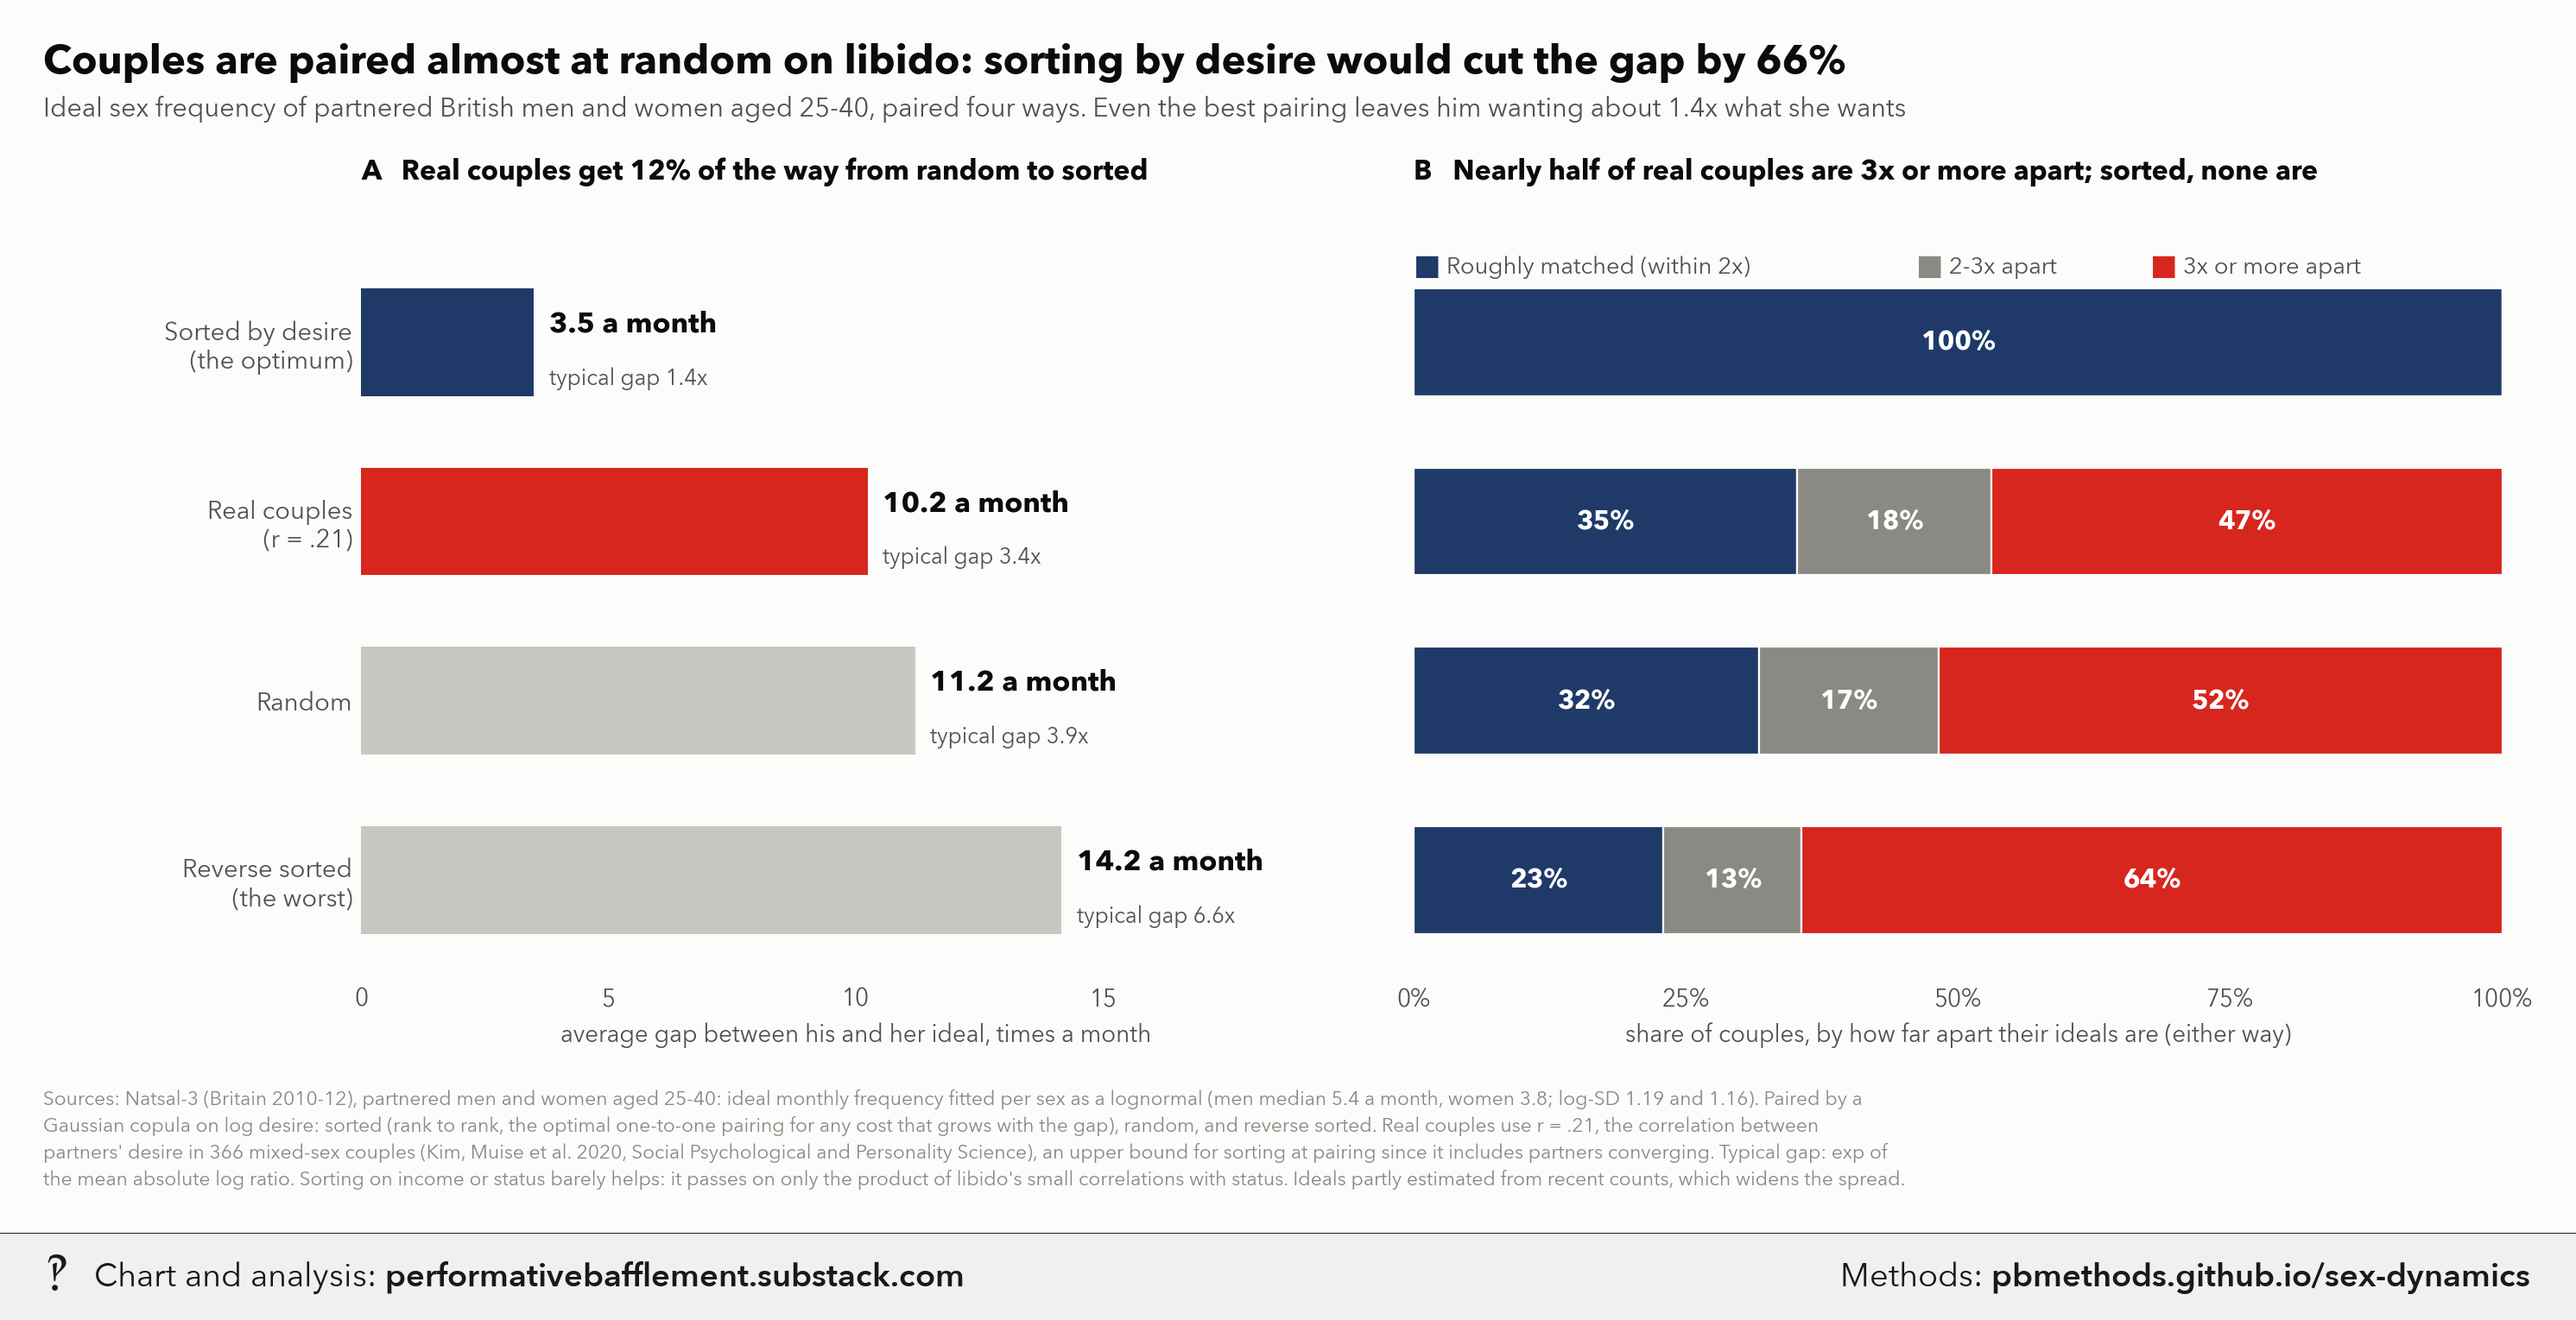
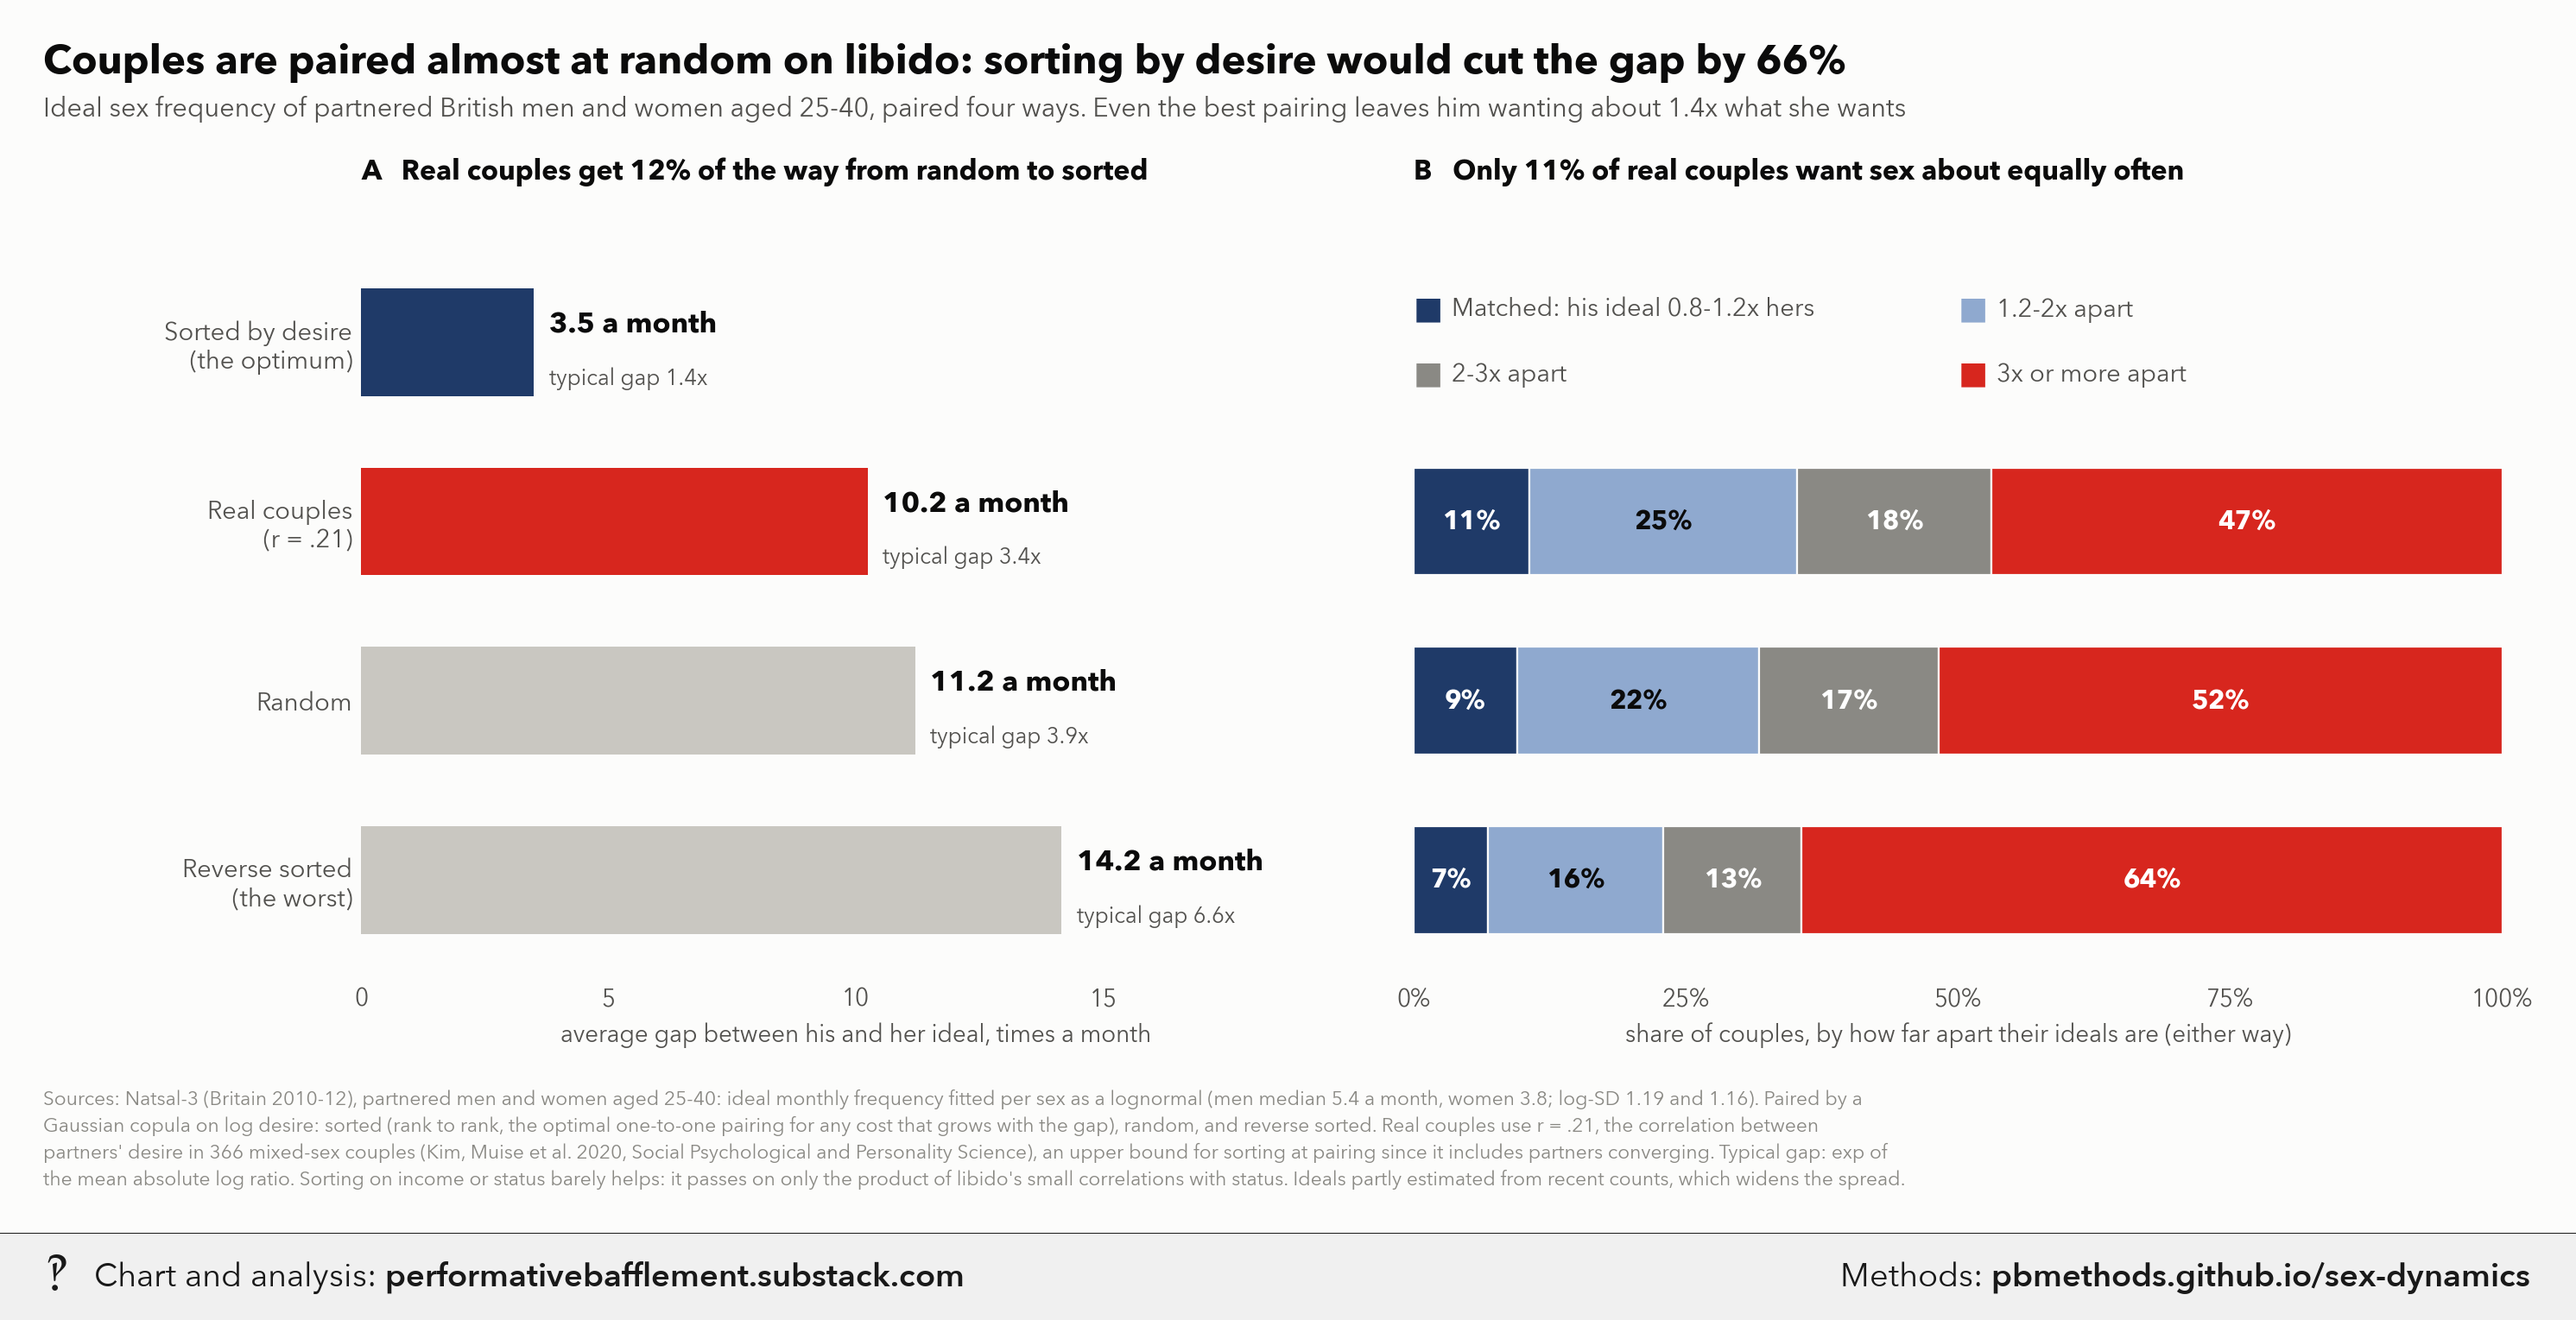
Update sex-dynamics

diff --git a/sex-dynamics/index.html b/sex-dynamics/index.html
@@ -136,7 +136,7 @@ Writes small CSVs next to this script; `master_post_charts.py` draws them. Run f
     mixed-sex couples (Kim, Muise et al. 2020, Social Psychological and Personality Science, 366 couples), 0 =
     random, -1 = worst. With one man per woman the median his/hers ratio is the same under every pairing; pairing
     only changes the spread around it. Reported: typical gap (exp of mean |log ratio|), mean absolute gap per month,
-    shares where he wants 2x+, she wants more, or they are within 2x, 2-3x or 3x+ apart either way. Monte Carlo, 2 million couples.
+    shares where he wants 2x+, she wants more, or his/hers is 0.8-1.2x (about matched), or they are within 2x, 2-3x or 3x+ apart either way. Monte Carlo, 2 million couples.
 
 * **Who has the most sex** (GSS 1989-2022, ages 25-60): the &quot;more than 3 times a week&quot; band of `sexfreq` (about
   7% of adults; GSS can't separate a finer top 3-5%) against the &quot;about once a week&quot; band, which holds the median.
@@ -2966,6 +2966,7 @@ Every number and method is in `master_post_data.py`'s docstring; caveats are in 
 <th>share_she_more</th>
 <th>share_3x_apart</th>
 <th>share_within_2x</th>
+<th>share_08_12</th>
 <th>share_2_to_3x</th>
 <th>sd_log_ratio</th>
 <th>mu_m</th>
@@ -2986,6 +2987,7 @@ Every number and method is in `master_post_data.py`'s docstring; caveats are in 
 <td>0.000</td>
 <td>1.000</td>
 <td>0.000</td>
+<td>0.000</td>
 <td>0.031</td>
 <td>1.688</td>
 <td>1.190</td>
@@ -3002,6 +3004,7 @@ Every number and method is in `master_post_data.py`'s docstring; caveats are in 
 <td>0.407</td>
 <td>0.469</td>
 <td>0.352</td>
+<td>0.106</td>
 <td>0.179</td>
 <td>1.477</td>
 <td>1.688</td>
@@ -3019,6 +3022,7 @@ Every number and method is in `master_post_data.py`'s docstring; caveats are in 
 <td>0.417</td>
 <td>0.517</td>
 <td>0.317</td>
+<td>0.095</td>
 <td>0.165</td>
 <td>1.661</td>
 <td>1.688</td>
@@ -3036,6 +3040,7 @@ Every number and method is in `master_post_data.py`'s docstring; caveats are in 
 <td>0.441</td>
 <td>0.644</td>
 <td>0.230</td>
+<td>0.068</td>
 <td>0.127</td>
 <td>2.349</td>
 <td>1.688</td>
@@ -4832,7 +4837,7 @@ Writes small CSVs next to this script; `master_post_charts.py` draws them. Run f
     mixed-sex couples (Kim, Muise et al. 2020, Social Psychological and Personality Science, 366 couples), 0 =
     random, -1 = worst. With one man per woman the median his/hers ratio is the same under every pairing; pairing
     only changes the spread around it. Reported: typical gap (exp of mean |log ratio|), mean absolute gap per month,
-    shares where he wants 2x+, she wants more, or they are within 2x, 2-3x or 3x+ apart either way. Monte Carlo, 2 million couples.
+    shares where he wants 2x+, she wants more, or his/hers is 0.8-1.2x (about matched), or they are within 2x, 2-3x or 3x+ apart either way. Monte Carlo, 2 million couples.
 
 * **Who has the most sex** (GSS 1989-2022, ages 25-60): the &quot;more than 3 times a week&quot; band of `sexfreq` (about
   7% of adults; GSS can't separate a finer top 3-5%) against the &quot;about once a week&quot; band, which holds the median.
@@ -5161,6 +5166,7 @@ for rho, lab in [(1.0, &quot;sorted (optimal)&quot;), (0.21, &quot;real couples 
                      share_he_2x=float((L &gt;= np.log(2)).mean()), share_she_more=float((L &lt; 0).mean()),
                      share_3x_apart=float((np.abs(L) &gt;= np.log(3)).mean()),
                      share_within_2x=float((np.abs(L) &lt; np.log(2)).mean()),
+                     share_08_12=float(((L &gt;= np.log(0.8)) &amp; (L &lt;= np.log(1.2))).mean()),
                      share_2_to_3x=float(((np.abs(L) &gt;= np.log(2)) &amp; (np.abs(L) &lt; np.log(3))).mean()),
                      sd_log_ratio=float(np.sqrt(sg_m ** 2 + sg_w ** 2 - 2 * rho * sg_m * sg_w)),
                      mu_m=mu_m, sg_m=sg_m, mu_w=mu_w, sg_w=sg_w))
@@ -6041,26 +6047,28 @@ got = (pr.loc[RA].mean_abs_gap_per_month - pr.loc[RE].mean_abs_gap_per_month) / 
     pr.loc[RA].mean_abs_gap_per_month - pr.loc[SO].mean_abs_gap_per_month)
 panel_title(ax, &quot;A&quot;, f&quot;Real couples get {got:.0%} of the way from random to sorted&quot;)
 
-SEGS = [(&quot;share_within_2x&quot;, &quot;Roughly matched (within 2x)&quot;, NAVY), (&quot;share_2_to_3x&quot;, &quot;2-3x apart&quot;, pb.GRAYS[0]),
-        (&quot;share_3x_apart&quot;, &quot;3x or more apart&quot;, RED)]
+pr[&quot;share_12_to_2x&quot;] = pr.share_within_2x - pr.share_08_12
+SEGS = [(&quot;share_08_12&quot;, &quot;Matched: his ideal 0.8-1.2x hers&quot;, NAVY), (&quot;share_12_to_2x&quot;, &quot;1.2-2x apart&quot;, &quot;#8fa9cf&quot;),
+        (&quot;share_2_to_3x&quot;, &quot;2-3x apart&quot;, pb.GRAYS[0]), (&quot;share_3x_apart&quot;, &quot;3x or more apart&quot;, RED)]
 for yi, k in zip(yb, order):
+    if k == SO:
+        continue
     left = 0
     for col, _, c in SEGS:
         v = pr.loc[k][col] * 100
         bx.barh(yi, v, left=left, height=0.6, color=c, edgecolor=P[&quot;SURFACE&quot;], lw=0.8)
         if v &gt;= 6:
             bx.text(left + v / 2, yi, f&quot;{v:.0f}%&quot;, ha=&quot;center&quot;, va=&quot;center&quot;, fontsize=11, fontweight=&quot;bold&quot;,
-                    color=&quot;white&quot;)
+                    color=&quot;white&quot; if c != &quot;#8fa9cf&quot; else INK)
         left += v
-x0 = 0
-for col, lab, c in SEGS:
-    bx.text(x0, 3.42, &quot;\u25a0&quot;, color=c, fontsize=12, va=&quot;center&quot;)
-    bx.text(x0 + 3, 3.42, lab, color=INK2, fontsize=9.8, va=&quot;center&quot;)
-    x0 += 3 + 1.45 * len(lab) + 4
+for n_, (col, lab, c) in enumerate(SEGS):  # legend in the row the sorted pairing would take
+    lx_, ly_ = (0, 50)[n_ % 2], yb[0] + 0.18 - 0.36 * (n_ // 2)
+    bx.text(lx_, ly_, &quot;\u25a0&quot;, color=c, fontsize=13, va=&quot;center&quot;)
+    bx.text(lx_ + 3.5, ly_, lab, color=INK2, fontsize=10.5, va=&quot;center&quot;)
 bx.set_yticks([]); bx.set_xlim(0, 100); bx.set_ylim(-0.55, 3.75)
 bx.set_xticks([0, 25, 50, 75, 100], [&quot;0%&quot;, &quot;25%&quot;, &quot;50%&quot;, &quot;75%&quot;, &quot;100%&quot;]); bx.grid(axis=&quot;y&quot;, visible=False)
 bx.set_xlabel(&quot;share of couples, by how far apart their ideals are (either way)&quot;)
-panel_title(bx, &quot;B&quot;, &quot;Nearly half of real couples are 3x or more apart; sorted, none are&quot;)
+panel_title(bx, &quot;B&quot;, f&quot;Only {pr.loc[RE].share_08_12:.0%} of real couples want sex about equally often&quot;)
 cut = 1 - pr.loc[SO].mean_abs_gap_per_month / pr.loc[RE].mean_abs_gap_per_month
 header(fig, f&quot;Couples are paired almost at random on libido: sorting by desire would cut the gap by {cut:.0%}&quot;,
        &quot;Ideal sex frequency of partnered British men and women aged 25-40, paired four ways. Even the best pairing &quot;

diff --git a/sex-dynamics/methods.md b/sex-dynamics/methods.md
@@ -143,7 +143,7 @@ Writes small CSVs next to this script; `master_post_charts.py` draws them. Run f
     mixed-sex couples (Kim, Muise et al. 2020, Social Psychological and Personality Science, 366 couples), 0 =
     random, -1 = worst. With one man per woman the median his/hers ratio is the same under every pairing; pairing
     only changes the spread around it. Reported: typical gap (exp of mean |log ratio|), mean absolute gap per month,
-    shares where he wants 2x+, she wants more, or they are within 2x, 2-3x or 3x+ apart either way. Monte Carlo, 2 million couples.
+    shares where he wants 2x+, she wants more, or his/hers is 0.8-1.2x (about matched), or they are within 2x, 2-3x or 3x+ apart either way. Monte Carlo, 2 million couples.
 
 * **Who has the most sex** (GSS 1989-2022, ages 25-60): the "more than 3 times a week" band of `sexfreq` (about
   7% of adults; GSS can't separate a finer top 3-5%) against the "about once a week" band, which holds the median.
@@ -609,12 +609,12 @@ _Every 2th row of 117 shown; full file: [natsal_desire_matching.csv](natsal_desi
 
 ### `natsal_desire_pairing.csv`
 
-| pairing | rho | median_ratio | typical_gap_x | mean_abs_gap_per_month | share_he_2x | share_she_more | share_3x_apart | share_within_2x | share_2_to_3x | sd_log_ratio | mu_m | sg_m | mu_w | sg_w |
-|---|---|---|---|---|---|---|---|---|---|---|---|---|---|---|
-| sorted (optimal) | 1.000 | 1.414 | 1.414 | 3.496 | 0.000 | 0.000 | 0.000 | 1.000 | 0.000 | 0.031 | 1.688 | 1.190 | 1.342 | 1.159 |
-| real couples (r = .21) | 0.210 | 1.417 | 3.356 | 10.244 | 0.408 | 0.407 | 0.469 | 0.352 | 0.179 | 1.477 | 1.688 | 1.190 | 1.342 | 1.159 |
-| random | 0.000 | 1.417 | 3.874 | 11.197 | 0.418 | 0.417 | 0.517 | 0.317 | 0.165 | 1.661 | 1.688 | 1.190 | 1.342 | 1.159 |
-| reverse sorted (worst) | -1.000 | 1.417 | 6.649 | 14.153 | 0.442 | 0.441 | 0.644 | 0.230 | 0.127 | 2.349 | 1.688 | 1.190 | 1.342 | 1.159 |
+| pairing | rho | median_ratio | typical_gap_x | mean_abs_gap_per_month | share_he_2x | share_she_more | share_3x_apart | share_within_2x | share_08_12 | share_2_to_3x | sd_log_ratio | mu_m | sg_m | mu_w | sg_w |
+|---|---|---|---|---|---|---|---|---|---|---|---|---|---|---|---|
+| sorted (optimal) | 1.000 | 1.414 | 1.414 | 3.496 | 0.000 | 0.000 | 0.000 | 1.000 | 0.000 | 0.000 | 0.031 | 1.688 | 1.190 | 1.342 | 1.159 |
+| real couples (r = .21) | 0.210 | 1.417 | 3.356 | 10.244 | 0.408 | 0.407 | 0.469 | 0.352 | 0.106 | 0.179 | 1.477 | 1.688 | 1.190 | 1.342 | 1.159 |
+| random | 0.000 | 1.417 | 3.874 | 11.197 | 0.418 | 0.417 | 0.517 | 0.317 | 0.095 | 0.165 | 1.661 | 1.688 | 1.190 | 1.342 | 1.159 |
+| reverse sorted (worst) | -1.000 | 1.417 | 6.649 | 14.153 | 0.442 | 0.441 | 0.644 | 0.230 | 0.068 | 0.127 | 2.349 | 1.688 | 1.190 | 1.342 | 1.159 |
 
 ### `cheating_outside_partners.csv`
 
@@ -1100,7 +1100,7 @@ Writes small CSVs next to this script; `master_post_charts.py` draws them. Run f
     mixed-sex couples (Kim, Muise et al. 2020, Social Psychological and Personality Science, 366 couples), 0 =
     random, -1 = worst. With one man per woman the median his/hers ratio is the same under every pairing; pairing
     only changes the spread around it. Reported: typical gap (exp of mean |log ratio|), mean absolute gap per month,
-    shares where he wants 2x+, she wants more, or they are within 2x, 2-3x or 3x+ apart either way. Monte Carlo, 2 million couples.
+    shares where he wants 2x+, she wants more, or his/hers is 0.8-1.2x (about matched), or they are within 2x, 2-3x or 3x+ apart either way. Monte Carlo, 2 million couples.
 
 * **Who has the most sex** (GSS 1989-2022, ages 25-60): the "more than 3 times a week" band of `sexfreq` (about
   7% of adults; GSS can't separate a finer top 3-5%) against the "about once a week" band, which holds the median.
@@ -1429,6 +1429,7 @@ for rho, lab in [(1.0, "sorted (optimal)"), (0.21, "real couples (r = .21)"), (0
                      share_he_2x=float((L >= np.log(2)).mean()), share_she_more=float((L < 0).mean()),
                      share_3x_apart=float((np.abs(L) >= np.log(3)).mean()),
                      share_within_2x=float((np.abs(L) < np.log(2)).mean()),
+                     share_08_12=float(((L >= np.log(0.8)) & (L <= np.log(1.2))).mean()),
                      share_2_to_3x=float(((np.abs(L) >= np.log(2)) & (np.abs(L) < np.log(3))).mean()),
                      sd_log_ratio=float(np.sqrt(sg_m ** 2 + sg_w ** 2 - 2 * rho * sg_m * sg_w)),
                      mu_m=mu_m, sg_m=sg_m, mu_w=mu_w, sg_w=sg_w))
@@ -2312,26 +2313,28 @@ got = (pr.loc[RA].mean_abs_gap_per_month - pr.loc[RE].mean_abs_gap_per_month) / 
     pr.loc[RA].mean_abs_gap_per_month - pr.loc[SO].mean_abs_gap_per_month)
 panel_title(ax, "A", f"Real couples get {got:.0%} of the way from random to sorted")
 
-SEGS = [("share_within_2x", "Roughly matched (within 2x)", NAVY), ("share_2_to_3x", "2-3x apart", pb.GRAYS[0]),
-        ("share_3x_apart", "3x or more apart", RED)]
+pr["share_12_to_2x"] = pr.share_within_2x - pr.share_08_12
+SEGS = [("share_08_12", "Matched: his ideal 0.8-1.2x hers", NAVY), ("share_12_to_2x", "1.2-2x apart", "#8fa9cf"),
+        ("share_2_to_3x", "2-3x apart", pb.GRAYS[0]), ("share_3x_apart", "3x or more apart", RED)]
 for yi, k in zip(yb, order):
+    if k == SO:
+        continue
     left = 0
     for col, _, c in SEGS:
         v = pr.loc[k][col] * 100
         bx.barh(yi, v, left=left, height=0.6, color=c, edgecolor=P["SURFACE"], lw=0.8)
         if v >= 6:
             bx.text(left + v / 2, yi, f"{v:.0f}%", ha="center", va="center", fontsize=11, fontweight="bold",
-                    color="white")
+                    color="white" if c != "#8fa9cf" else INK)
         left += v
-x0 = 0
-for col, lab, c in SEGS:
-    bx.text(x0, 3.42, "\u25a0", color=c, fontsize=12, va="center")
-    bx.text(x0 + 3, 3.42, lab, color=INK2, fontsize=9.8, va="center")
-    x0 += 3 + 1.45 * len(lab) + 4
+for n_, (col, lab, c) in enumerate(SEGS):  # legend in the row the sorted pairing would take
+    lx_, ly_ = (0, 50)[n_ % 2], yb[0] + 0.18 - 0.36 * (n_ // 2)
+    bx.text(lx_, ly_, "\u25a0", color=c, fontsize=13, va="center")
+    bx.text(lx_ + 3.5, ly_, lab, color=INK2, fontsize=10.5, va="center")
 bx.set_yticks([]); bx.set_xlim(0, 100); bx.set_ylim(-0.55, 3.75)
 bx.set_xticks([0, 25, 50, 75, 100], ["0%", "25%", "50%", "75%", "100%"]); bx.grid(axis="y", visible=False)
 bx.set_xlabel("share of couples, by how far apart their ideals are (either way)")
-panel_title(bx, "B", "Nearly half of real couples are 3x or more apart; sorted, none are")
+panel_title(bx, "B", f"Only {pr.loc[RE].share_08_12:.0%} of real couples want sex about equally often")
 cut = 1 - pr.loc[SO].mean_abs_gap_per_month / pr.loc[RE].mean_abs_gap_per_month
 header(fig, f"Couples are paired almost at random on libido: sorting by desire would cut the gap by {cut:.0%}",
        "Ideal sex frequency of partnered British men and women aged 25-40, paired four ways. Even the best pairing "
